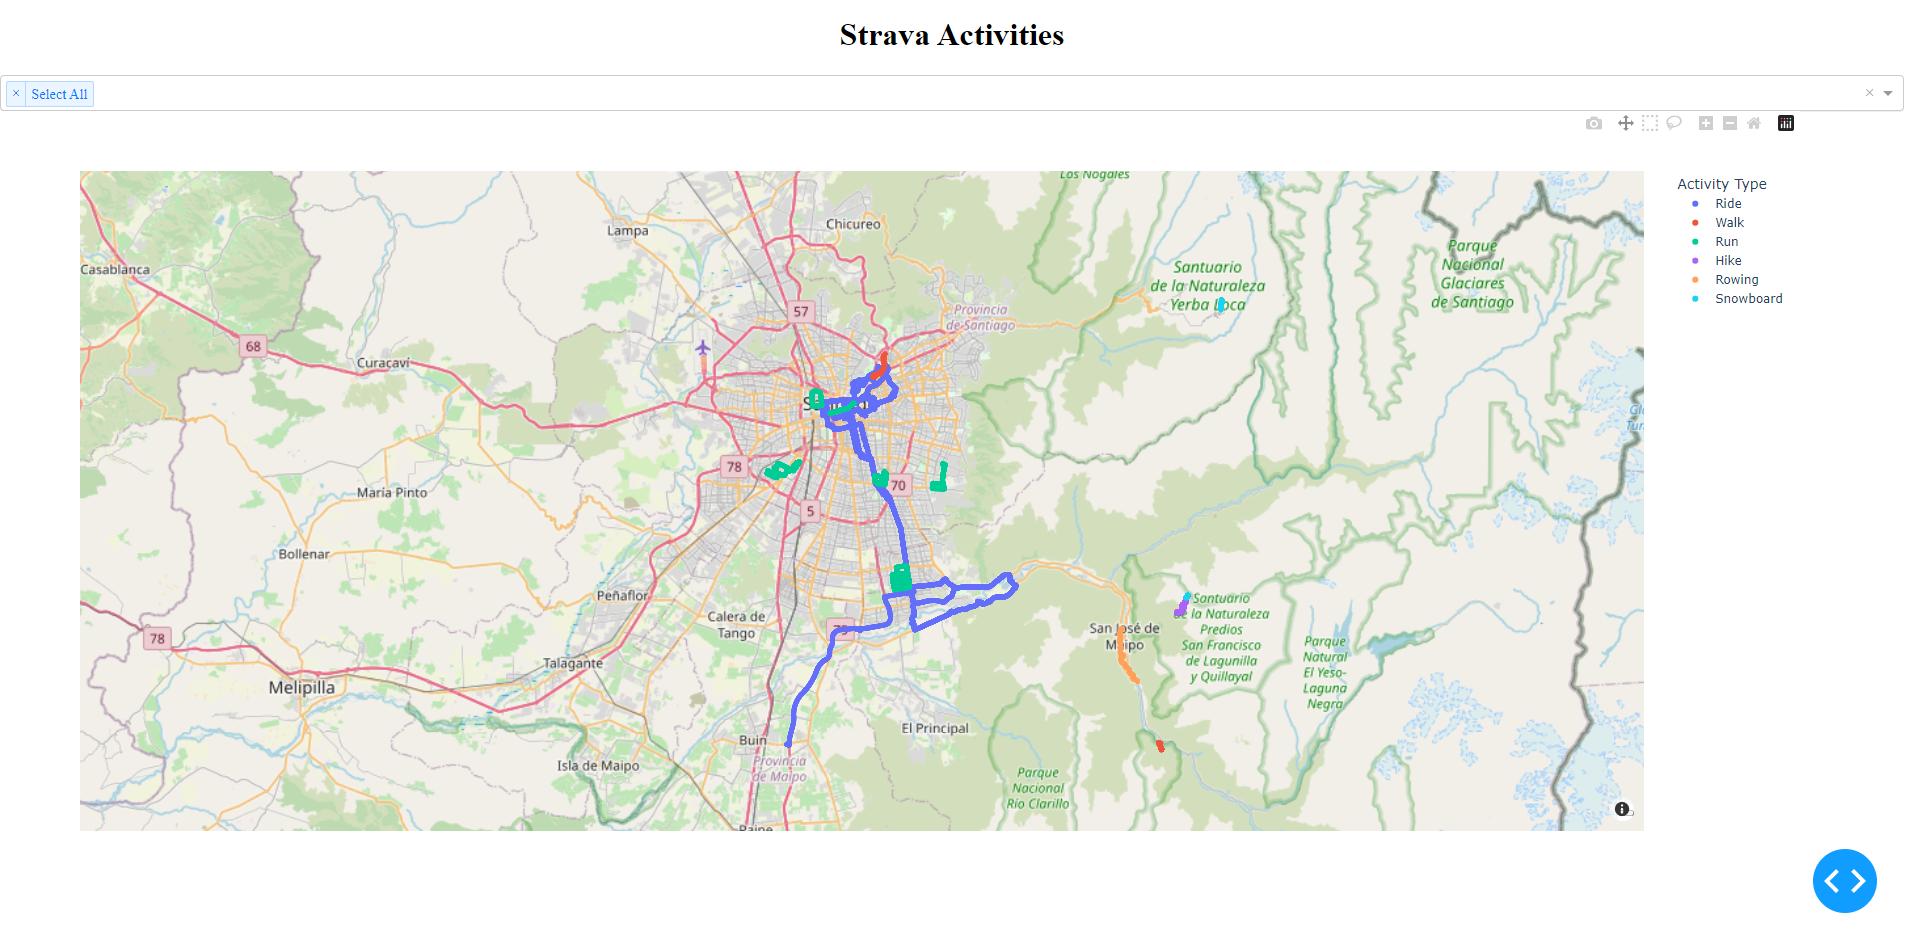
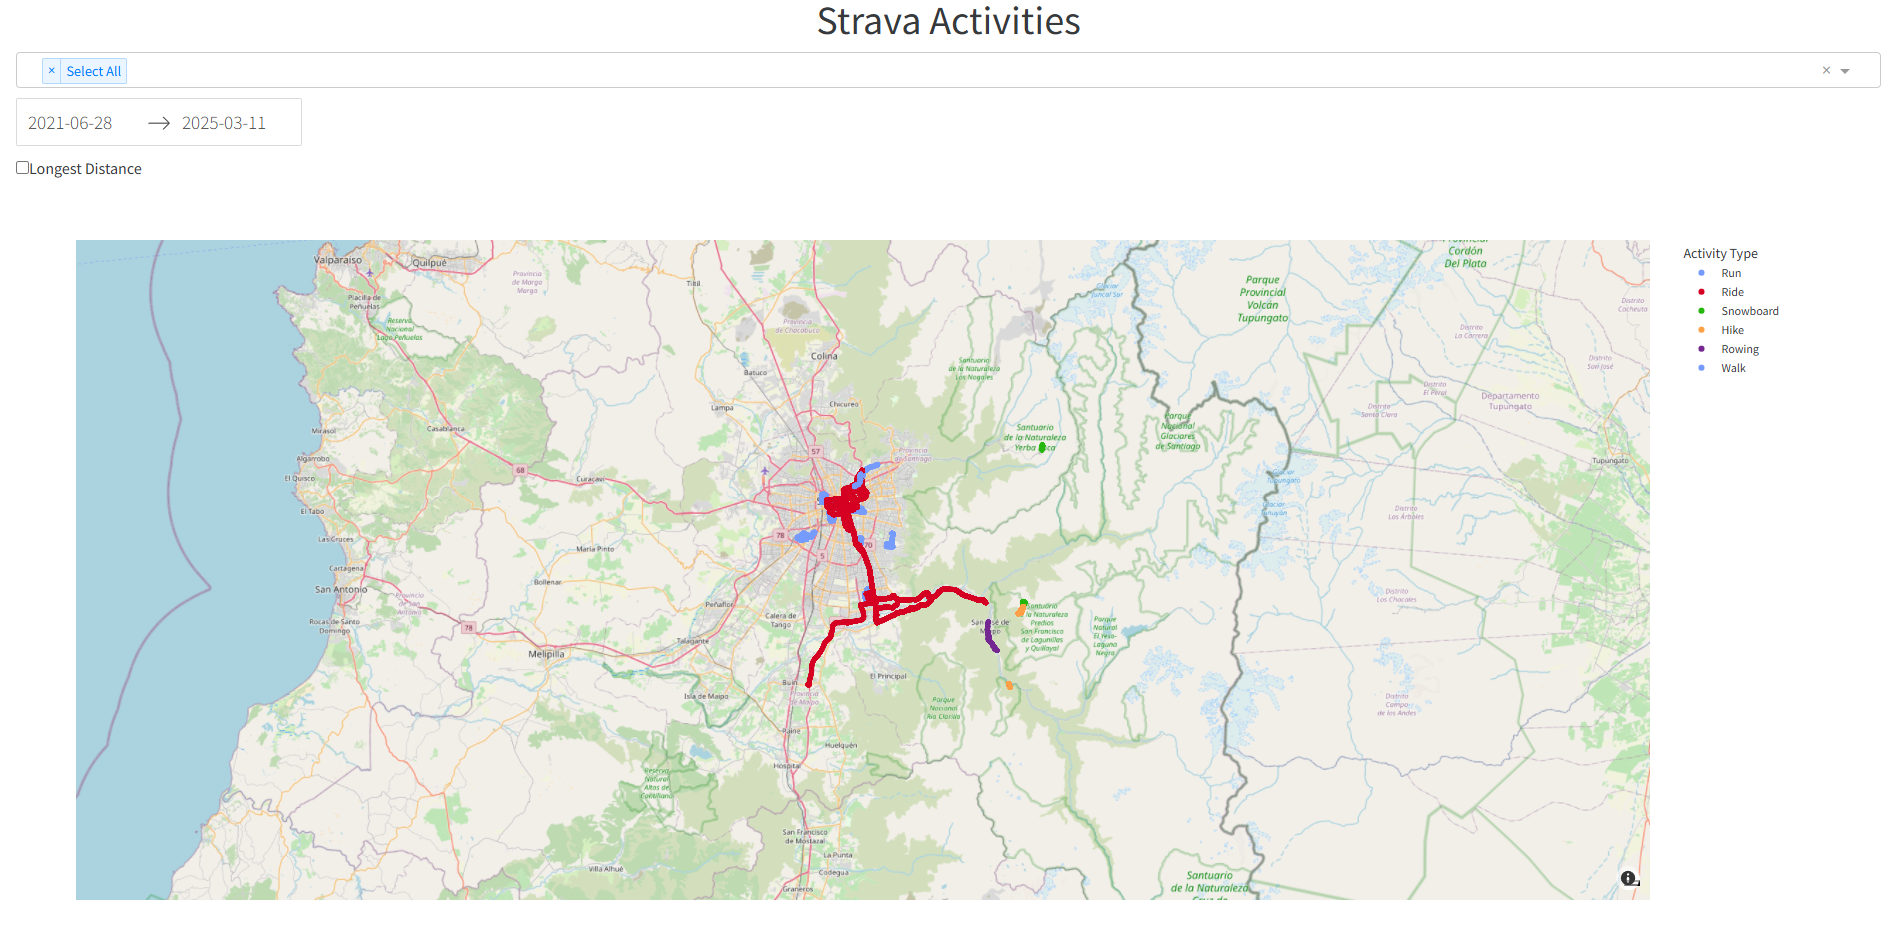
feat: style and webbrowser

diff --git a/src/dash_app.py b/src/dash_app.py
@@ -1,15 +1,19 @@
+import webbrowser
 import plotly.express as px
 import dash_bootstrap_components as dbc
+from threading import Timer
 from dash_bootstrap_templates import load_figure_template
 from dash import Dash, html, dcc, callback, Output, Input
 
 
 class StravaActivitiesApp:
-    def __init__(self, activities, favicon):
+    def __init__(self, activities, favicon, debug, port="8050"):
         self.activities = activities
         self.app = Dash(external_stylesheets=[dbc.themes.COSMO])
         self.app.title = "Strava Activities"
         self.app._favicon = favicon
+        self.port = port
+        self.debug = debug
         load_figure_template("COSMO")
 
     def create_app(self):
@@ -21,20 +25,34 @@ class StravaActivitiesApp:
                 + list(self.activities["activity_name_and_date"].unique()),
                 value=["Select All"],
                 multi=True,
+                style={"paddingLeft": "20px", "paddingRight": "20px"},
             ),
             dcc.DatePickerRange(
                 id="date-picker",
                 start_date=self.activities["date"].min(),
                 end_date=self.activities["date"].max(),
                 display_format="YYYY-MM-DD",
+                style={
+                    "paddingLeft": "20px",
+                    "paddingRight": "20px",
+                    "paddingTop": "10px",
+                },
             ),
             dcc.Checklist(
                 id="checkbox-longest-activity",
                 options=[{"label": "Longest Distance", "value": "LONGEST"}],
-                value=[],  # Default is unchecked
+                value=[],
                 inline=True,
+                style={
+                    "paddingLeft": "20px",
+                    "paddingRight": "20px",
+                    "paddingTop": "10px",
+                },
             ),
-            dcc.Graph(id="graph-content", config={"scrollZoom": True}),
+            dcc.Graph(
+                id="graph-content",
+                config={"scrollZoom": True},
+            ),
         ]
 
         @callback(
@@ -80,5 +98,10 @@ class StravaActivitiesApp:
 
             return fig
 
-    def run(self):
-        self.app.run(debug=False)
+    def _open_browser(self):
+        if not self.debug:
+            webbrowser.open_new(f"http://127.0.0.1:{self.port}/")
+
+    def run_app(self):
+        Timer(1, self._open_browser).start()
+        self.app.run(debug=self.debug, port=self.port)

diff --git a/app.py b/app.py
@@ -9,19 +9,19 @@ data_path = "data"
 favicon = "favicon.ico"
 
 
-def launch(new_activities):
+def launch(new_activities, debug=False):
     if new_activities == "y":
         print("Reading New Activities")
         client = strava_connection()
         download_strava_activities(client, data_path)
 
     df = get_activities_data(data_path)
-    strava_app = StravaActivitiesApp(df, favicon)
+    strava_app = StravaActivitiesApp(df, favicon, debug=debug)
     strava_app.create_app()
-    strava_app.run()
+    strava_app.run_app()
 
 
 if __name__ == "__main__":
     load_dotenv()
     new_activities = input("Read new activities? (y/n): ")
-    launch(new_activities)
+    launch(new_activities, debug=False)
